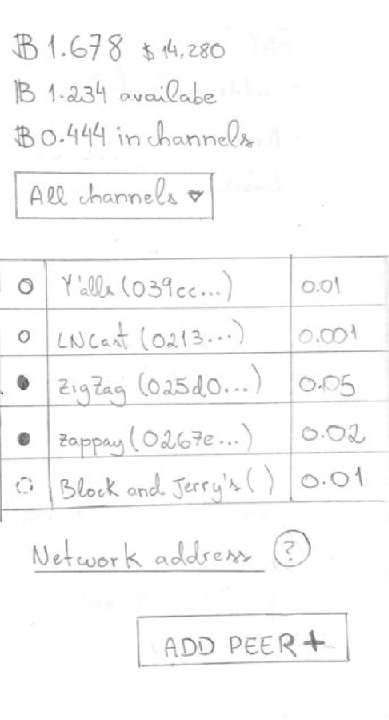
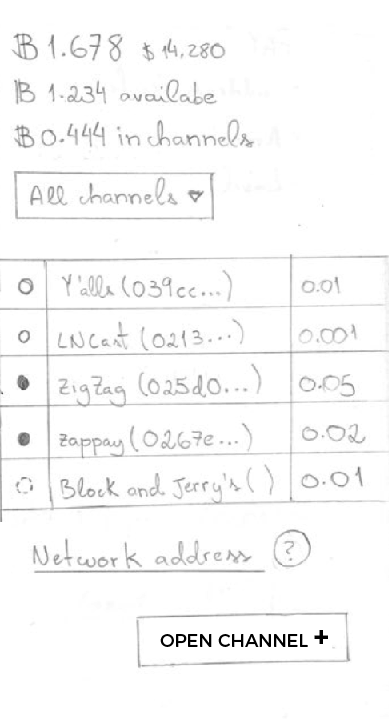
Updates objective-two-visualizing-the-user-interface.md
Auto commit by GitBook Editor

Changed region(s): [[0.401, 0.8556, 0.8329, 0.9167]]

diff --git a/objective-two-visualizing-the-user-interface.md b/objective-two-visualizing-the-user-interface.md
@@ -85,7 +85,7 @@ Comments about the interface:
 * The multiple options of scanning a QR code, writing, or simply copy/pasting the address that should receive the money are already widely adopted in Bitcoin applications, but it's important to mention them as best practices, anyway.
 * When the user inputs the address or lightning payment code, the wallet should promptly give the feedback of what type of address it is \(Lightning or blockchain\).
 * The idea of a self-bootstrapped wallet is that it will connect itself to a number of relevant peers in a way that, in most cases, there will already be a route for any payment the user might want to make. Nevertheless, it might come a time, especially in these early stages of the network, that a path can't be found and the wallet will need to open a new channel before doing the Lightning transaction. In that case, the best option is to warn the user that the transaction will take longer and require an extra fee because it will need to make a blockchain transaction to open a channel.
-* As it was already stated, the process of opening new channels should be automated by the wallet's backend, removing any burden from the user having to perform this operation manually. Nevertheless, the user should be able to add peers manually if he specifically desires so. The suggested structure for how this feature should be implemented will be discussed further.
+* As it was already stated, the process of opening new channels should be automated by the wallet's backend, removing any burden from the user having to perform this operation manually. Nevertheless, the user should be able to open channels manually if he specifically desires so. The suggested structure for how this feature should be implemented will be discussed further.
 * The fee estimation for the route chosen by the wallet's backend should be displayed with a warning if the fee seems too high. The definition of a high fee could be a market-established one that is used by default, with the possibility for the user to set his own threshold in the settings section.
 * The amount can be written in the Bitcoin field or in the fiat currency field, with one autocompleting the other using the current Bitcoin price. Both the fiat currency and the unit of Bitcoin should be available for the user's personal configuration in the settings section.
 
@@ -168,8 +168,24 @@ Channels screen, i.e. where open channels are listed.
 In the Lightning channels section, the most important elements to be considered:
 
 * List of channels with information about the peer, amount commited and the current status of the channel.
-* Possibility of manually opening a channel with a specific peer, even though it's an advanced feature.
+* Possibility of manually opening a channel with a specific peer, even though it's an advanced feature and should be treated as so \(for example: give the user a warning about the operation or only making this option available if the user enables it on the settings section\).
+* Make available the user's network address with a small explanation of why the user might need it \(represented here by the interrogation mark that can be hovered on or clicked\).
 * Filter for channels based on their status would be a nice to have.
+
+#### Open Channel page
+
+![](/assets/add_peer.png)
+
+Screen for opening a new channel manually.
+
+At last, we get to our final screen, which is where the user is able to manually open a new channel. Due to the risks associated and the particular difficulty in understanding the information on this page, this is considered an advanced feature. However, it's important that it's included in a Lightning Network wallet, even if, as suggested above, it's a page that needs to be deliberately enabled in the settings page.
+
+The main elements that should appear here are the following:
+
+* An input field for the peer address with a numeric representation of what is a peer address, like a placeholder. The user should also be able to scan the peer address that can be provided by third parties as a QR code.
+* A field for searching the peer by name. It's not as reliable as the previous but it can make the identification of the peer a lot easier if the peer in question has an alias set for himself.
+* The amount that the user wants to commit to the channel with the proper conversion to fiat currency.
+* A conventional choice of the transaction priority, since it's a blockchain transaction, with the expected fee being updated depending on the priority choice. Note that no drop-down option was used here because the number of options is limited to three, so there's no reason to degrade the discoverability of the values.
 
 ## Phase 2 wallets
 
